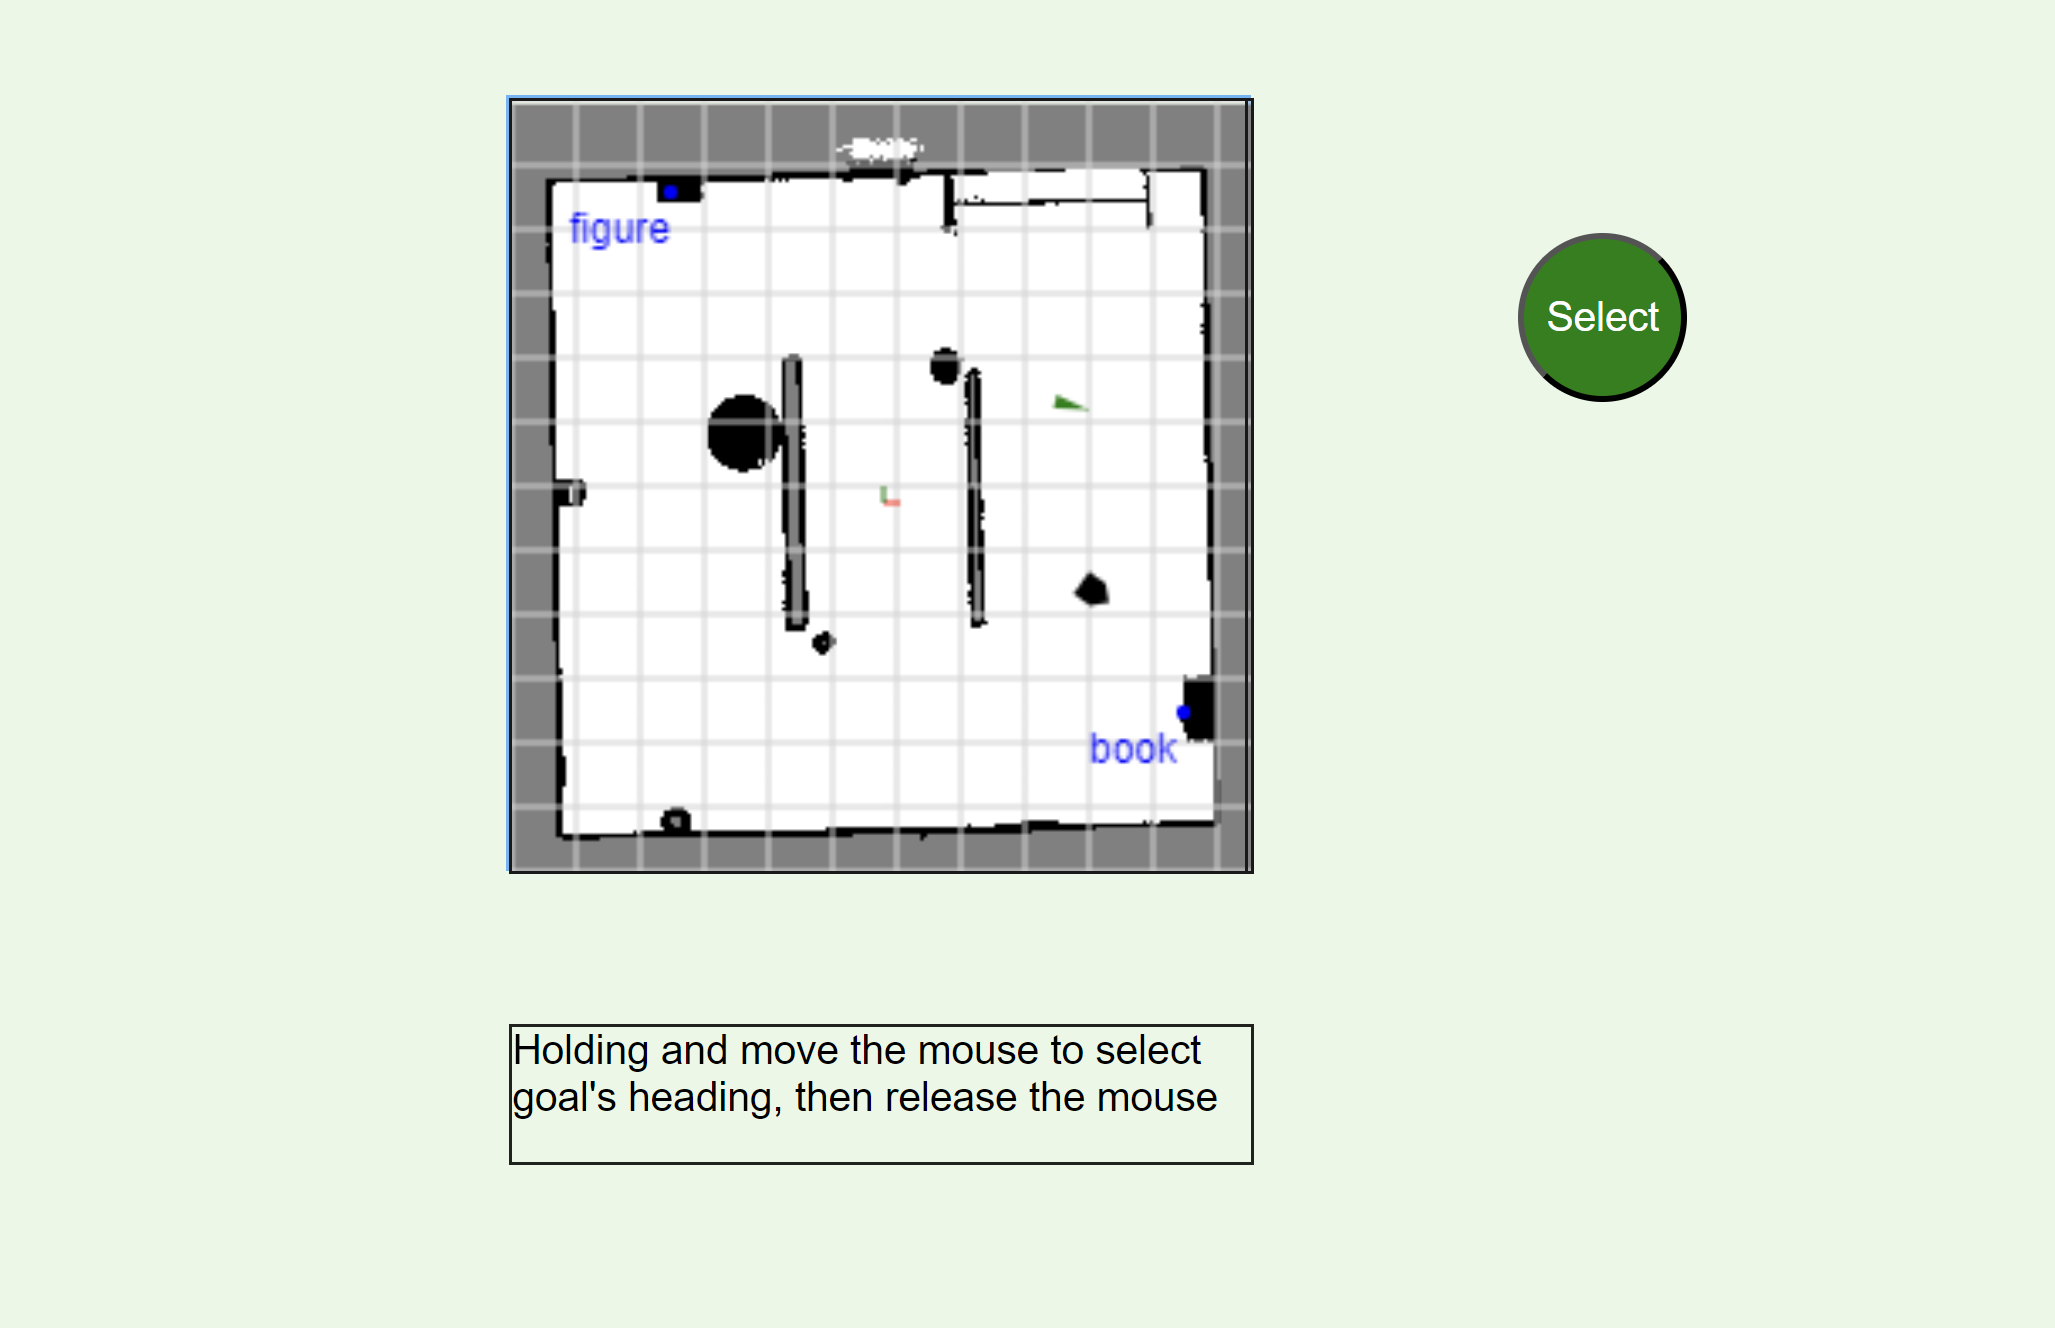
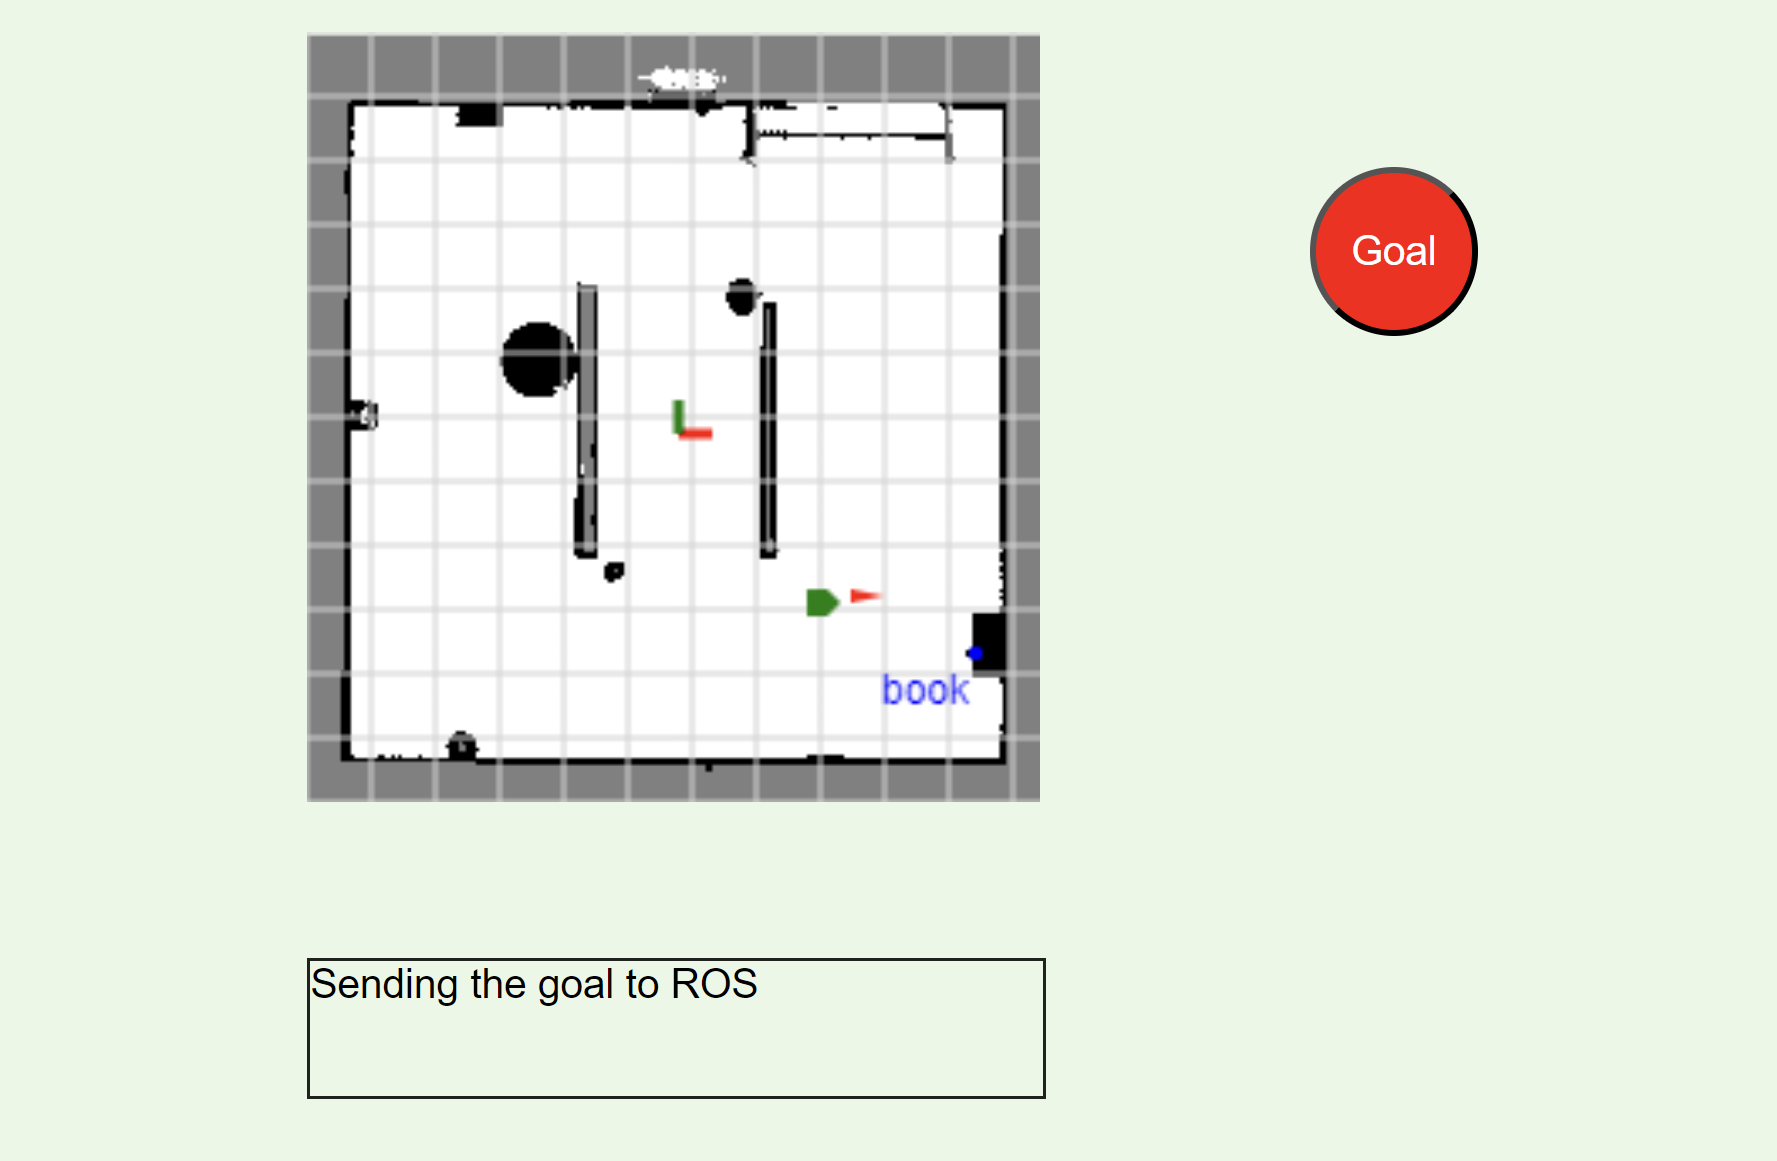
edited file

Changed region(s): [[0.1548, 0.031, 0.619, 0.7132], [0.1548, 0.7752, 0.619, 0.8992], [0.7119, 0.124, 0.8357, 0.3101]]

diff --git a/scripts/templates/flask_ros_interface.html b/scripts/templates/flask_ros_interface.html
@@ -234,13 +234,15 @@ class ROSWeb {
 
         this.globalContext.beginPath();
         this.globalContext.moveTo(globalXCanvas , globalYCanvas);
-        this.globalContext.lineTo(globalXCanvas + 5, globalYCanvas);
+        this.globalContext.lineTo(globalXCanvas + 10, globalYCanvas);
+        this.globalContext.lineWidth = 3;
         this.globalContext.strokeStyle = 'red';
         this.globalContext.stroke();
 
         this.globalContext.beginPath();
         this.globalContext.moveTo(globalXCanvas, globalYCanvas);
-        this.globalContext.lineTo(globalXCanvas, globalYCanvas - 5);
+        this.globalContext.lineTo(globalXCanvas, globalYCanvas - 10);
+        this.globalContext.lineWidth = 3;
         this.globalContext.strokeStyle = 'green';
         this.globalContext.stroke();
     }
@@ -261,7 +263,7 @@ class ROSWeb {
         this.robotContext.save();
         this.robotContext.translate(robotXCanvas, robotYCanvas); // move origin to robot position canvas
         this.robotContext.rotate(robotYawCanvas); // rotate around robot origin
-        this.robotContext.fillStyle = 'black';
+        this.robotContext.fillStyle = 'green';
         this.robotContext.beginPath(); // Draw pentagon robot
         this.robotContext.moveTo(0 + 6, 0);
         this.robotContext.lineTo(0 + 2, 0 + 4);
@@ -310,7 +312,7 @@ class ROSWeb {
         this.goalContext.save();
         this.goalContext.translate(pixelGoalOnCanvas.x, pixelGoalOnCanvas.y); // move origin to goal position canvas
         this.goalContext.rotate(pixelGoalOnCanvas.yaw); // rotate around goal origin
-        this.goalContext.fillStyle = 'green';
+        this.goalContext.fillStyle = 'red';
         this.goalContext.beginPath(); // Draw triangle goal
         this.goalContext.moveTo(0 + 10, 0);
         this.goalContext.lineTo(0 , 0 + 2);
@@ -321,8 +323,8 @@ class ROSWeb {
     }
 
     start() {
-        setInterval(() => this.fetchMap(), 10000);
-        setInterval(() => this.fetchGlobal(), 100000);
+        setInterval(() => this.fetchMap(), 1000);
+        setInterval(() => this.fetchGlobal(), 1000);
         setInterval(() => this.fetchRobotPose(), 30);
         setInterval(() => this.fetchObjectPose(), 3000);
         this.fetchMap();
@@ -379,7 +381,7 @@ class ROSWeb {
         // Add 'clicked' class to change button color to green
         this.goalButton.classList.add('clicked');
         this.goalButton.innerHTML = "Select" + "<br>";
-        this.stateCommand.innerHTML = "Selecting goal's position" + "<br>";
+        this.stateCommand.innerHTML = "Selecting goal's position." + "<br>";
     }
 
     cancelButtonPressState(event) {
@@ -389,7 +391,7 @@ class ROSWeb {
             this.isDragging = false;
             this.pixelGoalCanvas = null;
             this.goalButton.classList.remove('clicked'); // Remove 'clicked' class
-            this.stateCommand.innerHTML = "Waiting for goal" + "<br>";
+            this.stateCommand.innerHTML = "Waiting for the goal." + "<br>";
             this.goalButton.innerHTML = "Goal" + "<br>";
         }
     }
@@ -400,7 +402,7 @@ class ROSWeb {
         const yCanvas = event.offsetY;
         this.pixelGoalCanvas = { x: xCanvas, y: yCanvas, yaw: 0};
         this.isDragging = true;
-        this.stateCommand.innerHTML = "Holding and move the mouse to select goal's heading" + "<br>";
+        this.stateCommand.innerHTML = "Hold and move the mouse to select goal's heading." + "<br>";
     }
 
     mouseMoveHandler(event) {
@@ -413,7 +415,7 @@ class ROSWeb {
         const dy = (dragYCanvas - this.pixelGoalCanvas.y);
         this.pixelGoalCanvas.yaw = Math.atan2(dy, dx);
         this.drawGoal(this.pixelGoalCanvas);
-        this.stateCommand.innerHTML = "Holding and move the mouse to select goal's heading, then release the mouse" + "<br>";
+        this.stateCommand.innerHTML = "Hold and move the mouse to select goal's heading, then release the mouse" + "<br>";
     }
 
     mouseUpHandler(event) {
@@ -427,7 +429,7 @@ class ROSWeb {
         this.pixelGoalCanvas = null;
         this.goalButton.classList.remove('clicked');
         this.pressGoalButton = false;
-        this.stateCommand.innerHTML = "Sending goal to robot" + "<br>";
+        this.stateCommand.innerHTML = "Sending the goal to ROS" + "<br>";
         this.goalButton.innerHTML = "Goal" + "<br>";
     }
 
@@ -449,7 +451,7 @@ class ROSWeb {
             if (!response.ok) {
                 throw new Error('Failed to send goal pose to ROS');
             }
-            console.log('Goal pose sent to ROS');
+            console.log('Sending goal to ROS');
         })
         .catch(error => console.error('Error sending goal pose to ROS:', error));
     }

diff --git a/scripts/flask_ros_interface.py b/scripts/flask_ros_interface.py
@@ -91,47 +91,42 @@ class FlaskApp:
                 }
             })
         else:
+            rospy.logerr("Do not receive map topic")
             return jsonify({})
 
     def get_robot_in_map_origin(self):
         self.ros_handle.get_robot_to_map_origin_mat()
-        if self.ros_handle.robot_in_map_origin_mat is not None:
-            roll_robot, pitch_robot, yaw_robot = self.ros_handle.tf_mation.euler_from_matrix(self.ros_handle.robot_in_map_origin_mat[:3,:3])
-            #rospy.loginfo("Robot in map origin position x: %s, R matrix: %s", self.ros_handle.robot_in_map_origin_mat[0][3], self.ros_handle.robot_in_map_origin_mat[:3,:3])
-            return jsonify({
-                'position': {
-                    'x': self.ros_handle.robot_in_map_origin_mat[0][3],
-                    'y': self.ros_handle.robot_in_map_origin_mat[1][3],
-                    'z': self.ros_handle.robot_in_map_origin_mat[2][3]
-                },
-                'orientation': {
-                    'roll': roll_robot,
-                    'pitch': pitch_robot,
-                    'yaw': yaw_robot
-                }
-            })
-        else:
-            return jsonify({})
+        roll_robot, pitch_robot, yaw_robot = self.ros_handle.tf_mation.euler_from_matrix(self.ros_handle.robot_in_map_origin_mat[:3,:3])
+        #rospy.loginfo("Robot in map origin position x: %s, R matrix: %s", self.ros_handle.robot_in_map_origin_mat[0][3], self.ros_handle.robot_in_map_origin_mat[:3,:3])
+        return jsonify({
+            'position': {
+                'x': self.ros_handle.robot_in_map_origin_mat[0][3],
+                'y': self.ros_handle.robot_in_map_origin_mat[1][3],
+                'z': self.ros_handle.robot_in_map_origin_mat[2][3]
+            },
+            'orientation': {
+                'roll': roll_robot,
+                'pitch': pitch_robot,
+                'yaw': yaw_robot
+            }
+        })
 
     def get_global_frame_in_map_origin(self):
         self.ros_handle.get_global_to_map_origin_mat()
-        if self.ros_handle.global_in_map_origin_mat is not None:
-            roll_global, pitch_global, yaw_global = self.ros_handle.tf_mation.euler_from_matrix(self.ros_handle.global_in_map_origin_mat[:3,:3])   
-            #rospy.loginfo("Global in map origin position x : %s, R matrix: %s", self.ros_handle.global_in_map_origin_mat[0][3], self.ros_handle.global_in_map_origin_mat[:3,:3])
-            return jsonify({
-                'position': {
-                    'x': self.ros_handle.global_in_map_origin_mat[0][3],
-                    'y': self.ros_handle.global_in_map_origin_mat[1][3],
-                    'z': self.ros_handle.global_in_map_origin_mat[2][3]
-                },
-                'orientation': {
-                    'roll': roll_global,
-                    'pitch': pitch_global,
-                    'yaw': yaw_global
-                }
-            })
-        else:
-            return jsonify({})
+        roll_global, pitch_global, yaw_global = self.ros_handle.tf_mation.euler_from_matrix(self.ros_handle.global_in_map_origin_mat[:3,:3])   
+        #rospy.loginfo("Global in map origin position x : %s, R matrix: %s", self.ros_handle.global_in_map_origin_mat[0][3], self.ros_handle.global_in_map_origin_mat[:3,:3])
+        return jsonify({
+            'position': {
+                'x': self.ros_handle.global_in_map_origin_mat[0][3],
+                'y': self.ros_handle.global_in_map_origin_mat[1][3],
+                'z': self.ros_handle.global_in_map_origin_mat[2][3]
+            },
+            'orientation': {
+                'roll': roll_global,
+                'pitch': pitch_global,
+                'yaw': yaw_global
+            }
+        })
 
     def set_goal(self):
         self.ros_handle.goal_in_global_mat = np.dot(self.ros_handle.map_origin_in_global_mat,

diff --git a/scripts/ros_interface/interface.py b/scripts/ros_interface/interface.py
@@ -20,7 +20,7 @@ class ROSInterface:
         rospy.Subscriber('object_markers', MarkerArray, self.markers_callback)
         self.goal_publisher = rospy.Publisher('move_base_simple/goal', PoseStamped, queue_size=10)
 
-        self.map_msg = OccupancyGrid()
+        self.map_msg = None
         self.map_origin_in_global_mat = np.identity(4)
         self.global_in_map_origin_mat = np.identity(4) # global is map frame
         self.robot_in_map_origin_mat = np.identity(4) # map_origin is grid map's origin frame
@@ -40,7 +40,7 @@ class ROSInterface:
             self.map_origin_in_global_mat = self.tf_merROS.fromTranslationRotation(
                                 (self.map_msg.info.origin.position.x, self.map_msg.info.origin.position.y, self.map_msg.info.origin.position.z), 
                                 (self.map_msg.info.origin.orientation.x, self.map_msg.info.origin.orientation.y, self.map_msg.info.origin.orientation.z, self.map_msg.info.origin.orientation.w))
-            # use another method for fast inverse homogeneous transformation
+            # Use another method to speed up the inverse.
             #self.global_in_map_origin_mat = self.tf_mation.inverse_matrix(self.map_origin_in_global_mat)
             self.global_in_map_origin_mat[:3,:3] = np.transpose(self.map_origin_in_global_mat[:3,:3])
             self.global_in_map_origin_mat[:3,3] = np.dot(-np.transpose(self.map_origin_in_global_mat[:3,:3]),(self.map_origin_in_global_mat[:3,3]))

diff --git a/README.md b/README.md
@@ -1,8 +1,8 @@
 ## flask_robot_ros
 
-## Installation
+# Installation
 
-1. Install Flask and ROS Noetic dependencies.
+1. Install Flask, ROS Noetic dependencies and navigation stack.
 
 2. Clone flask_robot_ros in ROS workspace
 
@@ -10,17 +10,19 @@
 git clone https://github.com/KorawitGems/flask_robot_ros.git
 ```
 
-## Run
+# Run
 
 ```bash
 roslaunch flask_robot_ros flask_ros_interface.launch
 ```
 
 <p align="center">
-  <img src="image/web.png" width="640" height="360"/>
+  <img src="image/web_interface.png" width="640" height="360"/>
 </p>
 
+
 Send goal to navigate robot via ROS interface using Flask.
+
 
 <p align="center">
   <img src="image/send_goal.png" width="640" height="360"/>
